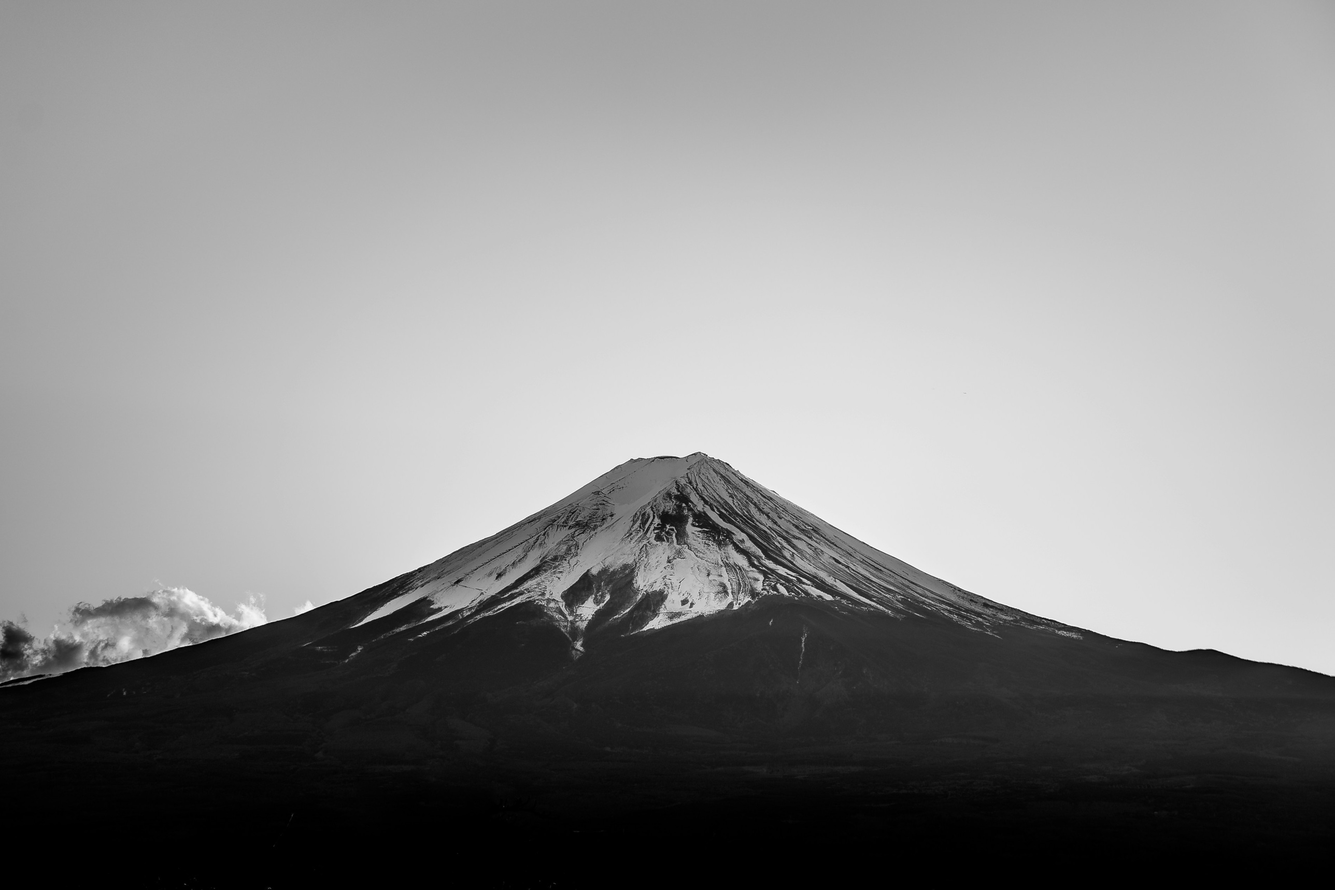
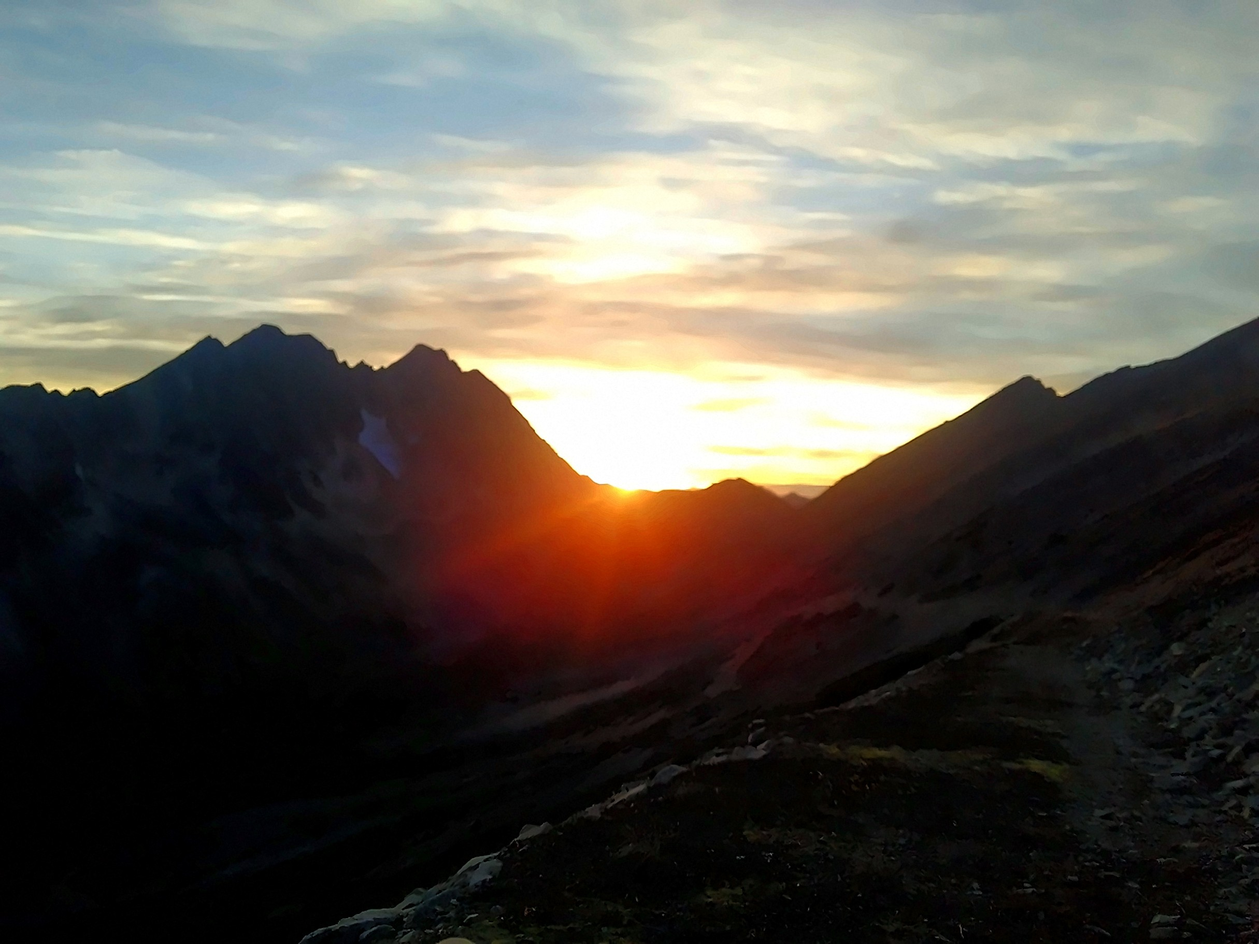
Replace hero image with sunrise photo (cleaned and upscaled); lighten landing overlay
Claude-Session: https://claude.ai/code/session_01NwKvTukNQ1WguxQt9sttg4

diff --git a/assets/css/styles.css b/assets/css/styles.css
@@ -263,7 +263,7 @@ a:hover { color: var(--red-dark); }
 
 /* landing page */
 .landing-body { background: var(--charcoal); }
-.landing { position: relative; min-height: 100vh; min-height: 100svh; display: flex; flex-direction: column; align-items: center; justify-content: center; padding: 48px var(--gutter) 72px; background: linear-gradient(rgba(18,19,21,0.72), rgba(18,19,21,0.82)), var(--photo) url("../img/hero.jpg") center / cover no-repeat; color: var(--bone); text-align: center; }
+.landing { position: relative; min-height: 100vh; min-height: 100svh; display: flex; flex-direction: column; align-items: center; justify-content: center; padding: 48px var(--gutter) 72px; background: linear-gradient(rgba(18,19,21,0.5), rgba(18,19,21,0.62) 55%, rgba(18,19,21,0.82)), var(--photo) url("../img/hero.jpg") center / cover no-repeat; color: var(--bone); text-align: center; }
 .landing__inner { display: flex; flex-direction: column; align-items: center; gap: clamp(36px, 7vh, 64px); width: 100%; }
 .landing__logo { display: flex; flex-direction: column; align-items: center; gap: 0; margin: 0; font-weight: 400; }
 .landing__logo img { width: auto; height: clamp(170px, 34vh, 320px); margin-bottom: clamp(0px, 1vh, 8px); filter: drop-shadow(0 0 1.5px rgba(245,241,234,0.95)) drop-shadow(0 0 14px rgba(245,241,234,0.22)); }
